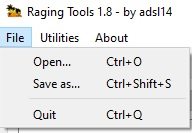
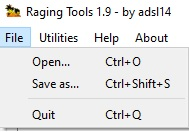
Updated README.

diff --git a/README.md b/README.md
@@ -106,7 +106,13 @@ to <i>SPA</i>
 <img src="images/utilities_tab_converter_spa.jpg" alt="utilities_tab_converter_spa" width="40%">
 <img src="images/utilities_tab_converter_json.jpg" alt="utilities_tab_converter_json" width="34%">
 
-### About
+## Help
+
+In this tab you can check some guides when using the tool in order to avoid crashes, specially in real hardware.
+
+<img src="images/help_tab.jpg" alt="about_tab" width="30%">
+
+## About
 
 In this tab you can check the author of the tool, go to the <i>GitHub</i> repository where is explained how to use
 the tool, and the people that contribuited in the development of this tool. There is also a link to the <b>Discord</b>
